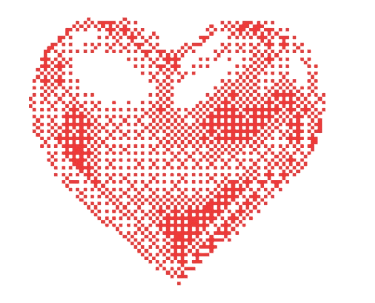
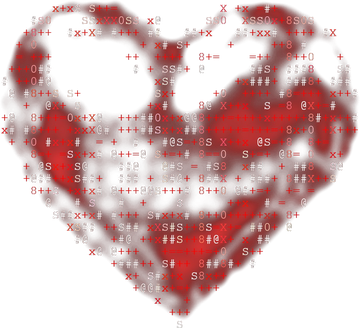
feat(brand): replace the heart mark with the ASCII glyph heart
static/img/heart.png is the supplied redheart.jpg rather than the generated
pixel-dither mark.

The source is red ASCII glyphs on a black field, so it is converted rather
than dropped in: the field is flattened to transparency, the image is
trimmed to the heart's bounding box and downscaled to 360px wide. Left as a
JPG it would render as a black rectangle inside the wordmark, which is the
tile that was deliberately removed from the previous mark.

image-rendering: pixelated is removed for this mark. It exists to keep
hard stair-step edges crisp, which suited the pixel-dither heart; on
photographic glyph art it only makes the upscale look blocky. object-fit:
contain keeps the mark centred in its em-sized box.

Spins on its vertical axis as before.

diff --git a/static/css/style.css b/static/css/style.css
@@ -66,8 +66,7 @@ a{color:inherit;text-decoration:none}
 }
 .logo-heart img{
   width:100%;height:100%;display:block;
-  image-rendering:pixelated;
-  image-rendering:-moz-crisp-edges;
+  object-fit:contain;
   animation:heart-spin 6s linear infinite;
   transform-origin:50% 50%;
   backface-visibility:visible;

diff --git a/frontend/src/index.css b/frontend/src/index.css
@@ -100,7 +100,7 @@ textarea:focus-visible,
   width: 1.15em;
   height: 1.15em;
   display: block;
-  image-rendering: pixelated;
+  object-fit: contain;
   animation: heart-spin 6s linear infinite;
   transform-origin: 50% 50%;
   backface-visibility: visible;
